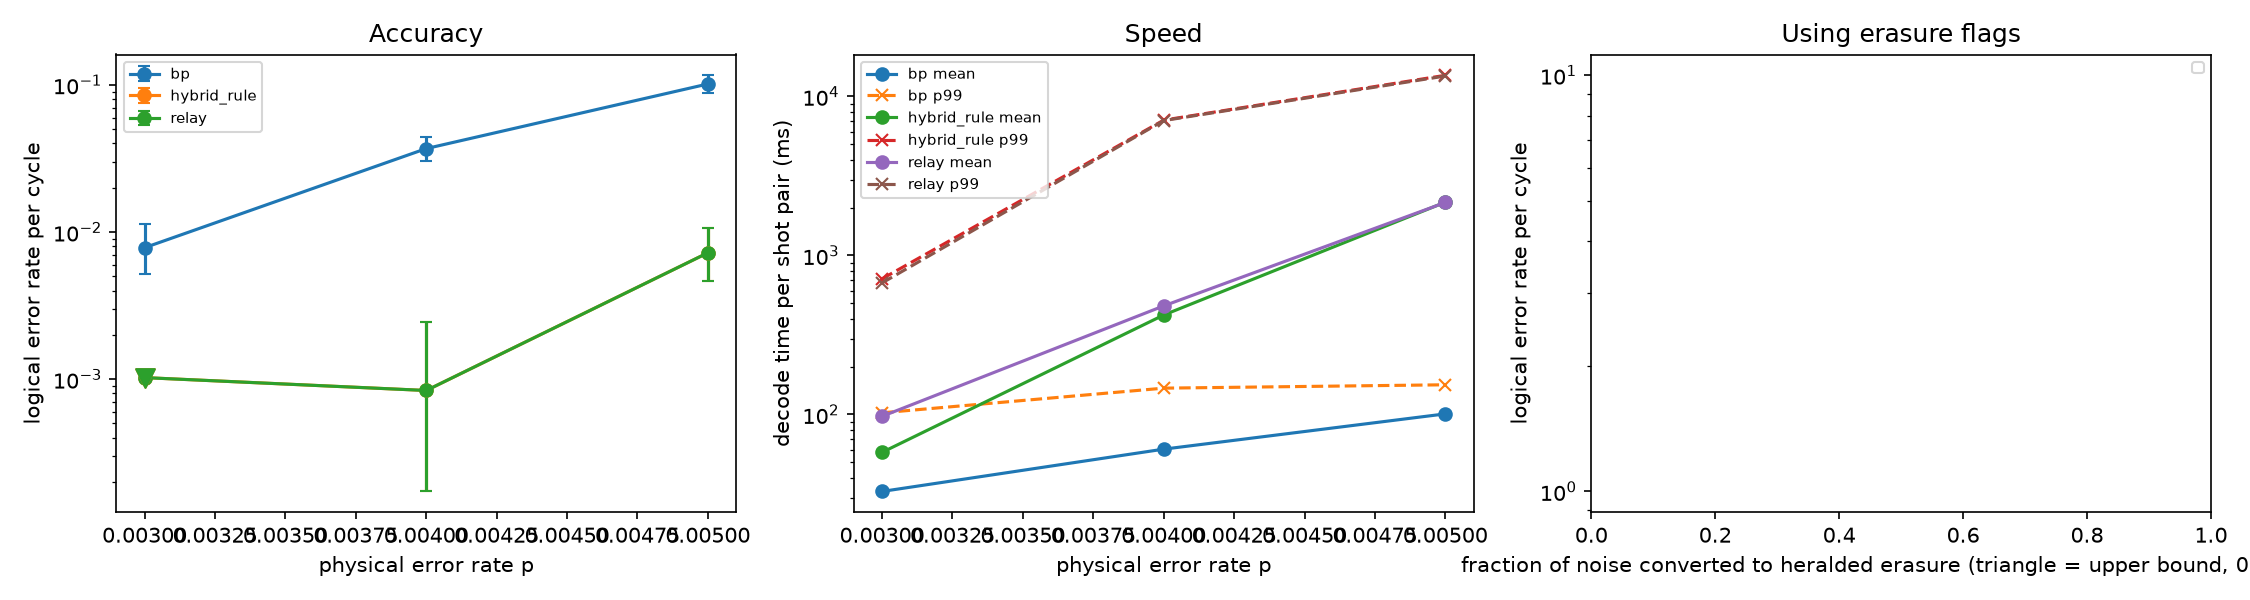
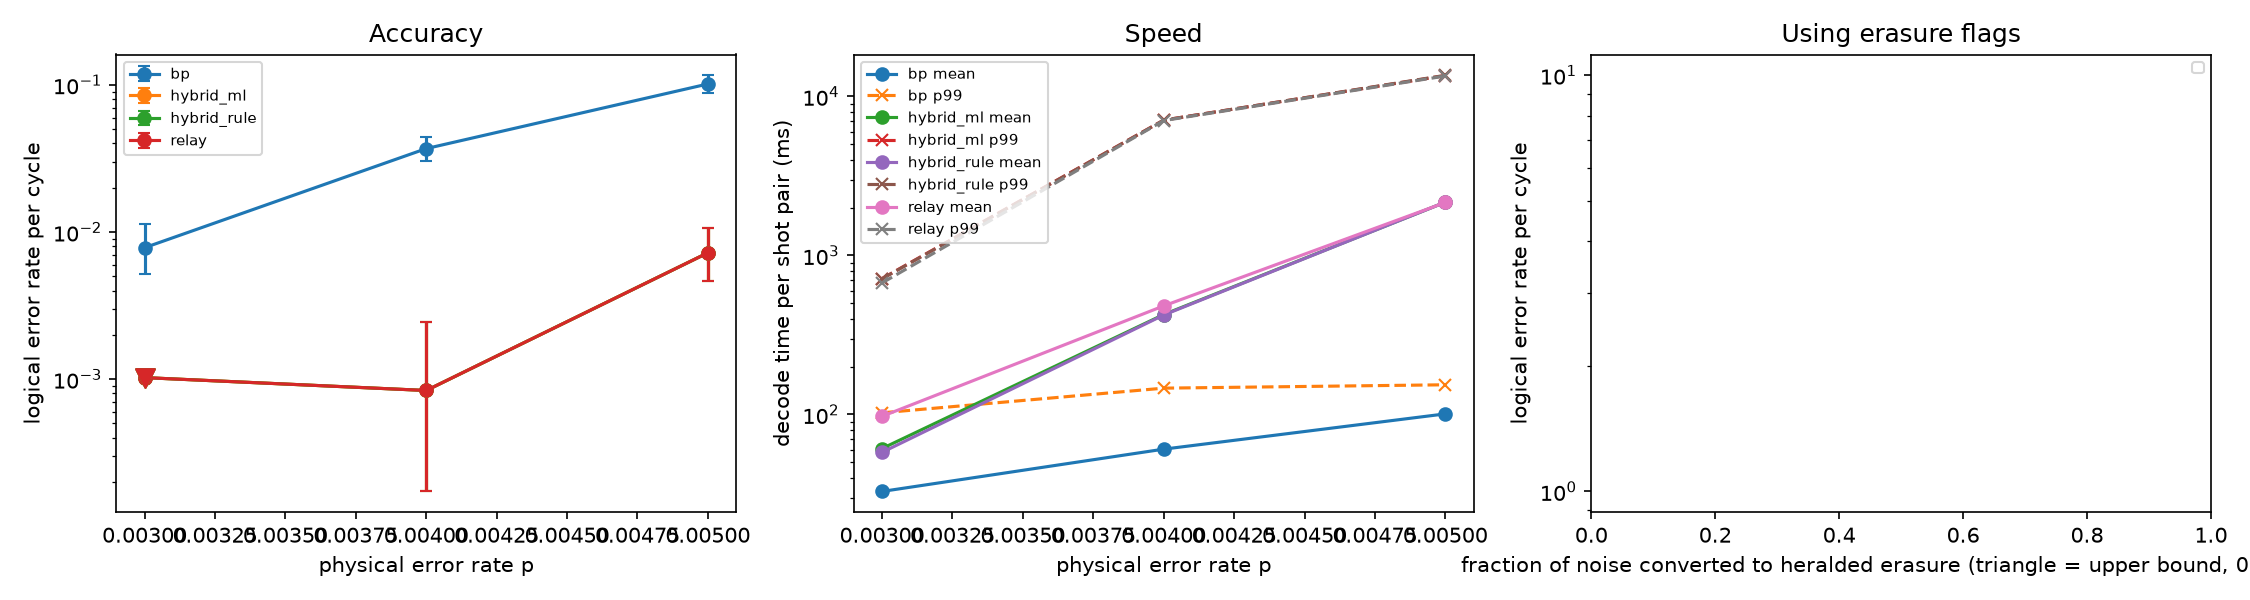
Add live demo with resource report, merge extra baselines, train-dir option; prompts for missing BP-OSD runs
Claude-Session: https://claude.ai/code/session_011bPWE2Uz1MYhyrDV9QQkmU

diff --git a/challenge-1-ml-decoder-kit/demo.py b/challenge-1-ml-decoder-kit/demo.py
@@ -1,0 +1,89 @@
+"""Live demo and resource report: one fresh shot through the ML-routed hybrid decoder.
+
+  python demo.py --p 0.004 --basis X
+
+1. Trains the router on the cached training shots (results/train_*_p<p>.npz, seed 1).
+2. Simulates one NEW shot (seed 99, never seen before).
+3. The router reads the alarm counts and picks a path: fast BP (escalating to relay-BP if BP
+   does not converge) or straight to relay-BP. The chosen decoders run live.
+4. Prints the prediction against the truth, the time per step, and the resources used.
+"""
+import argparse
+import os
+import pickle
+import platform
+import resource
+import subprocess
+import time
+
+import numpy as np
+from ldpc import BpDecoder
+from sklearn.ensemble import HistGradientBoostingClassifier
+
+from circuit import GROSS_CIRCUITS, dem_matrices, detector_ids, load_circuit, sample
+from decoders import relay_decoder
+from run_job import FAST_BP
+
+
+def cpu_name():
+    try:
+        if platform.system() == "Darwin":
+            return subprocess.check_output(["sysctl", "-n", "machdep.cpu.brand_string"], text=True).strip()
+        for line in open("/proc/cpuinfo"):
+            if line.startswith("model name"):
+                return line.split(":", 1)[1].strip()
+    except Exception:
+        pass
+    return platform.processor() or "unknown"
+
+
+def peak_mb():
+    r = resource.getrusage(resource.RUSAGE_SELF).ru_maxrss
+    return r / 1e6 if platform.system() == "Darwin" else r / 1e3   # bytes on macOS, KB on Linux
+
+
+def main():
+    a = argparse.ArgumentParser()
+    a.add_argument("--p", type=float, default=0.004)
+    a.add_argument("--basis", choices=["X", "Z"], default="X")
+    a.add_argument("--seed", type=int, default=99)
+    a.add_argument("--train-dir", default="results")
+    args = a.parse_args()
+
+    train = [dict(np.load(f"{args.train_dir}/train_{b}_p{args.p}.npz")) for b in "XZ"]
+    feats = lambda d: np.column_stack([d["round_weights"], d["round_weights"].sum(1), d["n_flags"]])
+    router = HistGradientBoostingClassifier(max_iter=200).fit(np.vstack([feats(d) for d in train]),
+                                                              np.concatenate([d["conv_bp"] for d in train]))
+    circuit = load_circuit(GROSS_CIRCUITS[args.basis], args.p)
+    H, L, priors = dem_matrices(circuit, args.basis)
+    t = time.perf_counter()
+    bp, relay = BpDecoder(H, error_channel=list(priors), **FAST_BP), relay_decoder(H, priors)
+    setup_s = time.perf_counter() - t
+
+    det, obs = sample(circuit, 1, args.seed)
+    syn = det[0, detector_ids(circuit, args.basis)]
+    x = np.concatenate([syn.reshape(-1, 72).sum(1), [syn.sum(), 0]])[None, :]
+    print(f"New shot (p={args.p}, {args.basis} memory, seed {args.seed}): {int(syn.sum())} alarms over 13 rounds")
+    print("  alarms per round:", syn.reshape(-1, 72).sum(1).tolist())
+
+    t = time.perf_counter(); easy = bool(router.predict(x)[0]); t_router = time.perf_counter() - t
+    print(f"Router ({t_router * 1e3:.1f} ms): {'easy -> fast BP first' if easy else 'hard -> straight to relay-BP'}")
+    if easy:
+        t = time.perf_counter(); e = bp.decode(syn); t_bp = time.perf_counter() - t
+        print(f"Fast BP ({t_bp * 1e3:.1f} ms): {'converged, answer accepted' if bp.converge else 'did not converge -> relay-BP'}")
+    if not easy or not bp.converge:
+        t = time.perf_counter(); e = np.asarray(relay.decode(syn), np.uint8); t_relay = time.perf_counter() - t
+        print(f"Relay-BP ({t_relay * 1e3:.1f} ms)")
+    pred = (L @ np.asarray(e, np.uint8)) % 2
+    print("Predicted logical flips:", "".join(map(str, pred)))
+    print("True logical flips:     ", "".join(map(str, obs[0])), "->", "CORRECT" if (pred == obs[0]).all() else "WRONG")
+
+    print("\nResources")
+    print(f"  CPU: {cpu_name()}, {os.cpu_count()} logical cores; this demo uses 1 thread")
+    print(f"  Decoding matrix: {H.shape[0]} checks x {H.shape[1]} error mechanisms, {H.nnz} nonzeros")
+    print(f"  Decoder setup time: {setup_s:.2f} s; router model size: {len(pickle.dumps(router)) / 1e3:.0f} kB")
+    print(f"  Peak memory of this process: {peak_mb():.0f} MB")
+
+
+if __name__ == "__main__":
+    main()

diff --git a/challenge-1-ml-decoder-kit/analyze.py b/challenge-1-ml-decoder-kit/analyze.py
@@ -26,6 +26,7 @@ from sklearn.ensemble import HistGradientBoostingClassifier
 from scipy.stats import beta
 
 CYCLES = 12
+TRAIN_DIR = None   # set by --train-dir; defaults to --dir
 
 
 def per_cycle_ci(failed, cycles=None):
@@ -39,7 +40,18 @@ def per_cycle_ci(failed, cycles=None):
 
 
 def load(path):
-    return dict(np.load(path))
+    """Load a cached result file and merge any extra decoders run later on the same shots
+    (files named extra_<basis>_p<p>*.npz next to test_<basis>_p<p>.npz, same seed and shot count)."""
+    d = dict(np.load(path))
+    base = os.path.basename(path)
+    if base.startswith("test_"):
+        for extra in glob.glob(os.path.join(os.path.dirname(path), base.replace("test_", "extra_").replace(".npz", "*.npz"))):
+            e = dict(np.load(extra))
+            if int(e["seed"]) != int(d["seed"]) or int(e["shots"]) != int(d["shots"]):
+                print(f"skipping {extra}: seed or shot count differs from {base}")
+                continue
+            d.update({k: v for k, v in e.items() if k.split("_")[0] in ("fail", "time", "conv")})
+    return d
 
 
 def features(d):
@@ -47,6 +59,7 @@ def features(d):
 
 
 def train_router(dirname, p):
+    dirname = TRAIN_DIR or dirname
     """ML router and the simple baseline (one threshold on total alarm count), both fit on the train seed only."""
     files = [f"{dirname}/train_{b}_p{p}.npz" for b in "XZ"]
     if not all(os.path.exists(f) for f in files):
@@ -99,7 +112,10 @@ def paired(px, pz, name):
 def main():
     a = argparse.ArgumentParser()
     a.add_argument("--dir", default="results")
+    a.add_argument("--train-dir", help="where train_*.npz live (default: --dir), e.g. results for results_timing")
     args = a.parse_args()
+    global TRAIN_DIR
+    TRAIN_DIR = args.train_dir
     rows = []
     ps = sorted({re.search(r"_p([\d.]+)\.npz", f).group(1) for f in glob.glob(f"{args.dir}/test_X_p*.npz")})
     for p in ps:

diff --git a/PROMPTS.md b/PROMPTS.md
@@ -111,3 +111,30 @@ for p in 0.003 0.004 0.005; do for b in X Z; do python run_job.py --basis $b --p
 Then: python analyze.py --dir results_timing   (use only its mean/p99 times; its error rates are too noisy with 300 shots)
 git pull && git add -f results_timing/*.npz && git commit -m "results: clean timing" && git push
 ```
+
+## Missing BP-OSD baselines (any two free laptops, about 10–20 min each)
+The sponsor wants BP-OSD on the same test shots at every error rate. Same seed and shot count means the same shots. `analyze.py` merges these files in automatically.
+
+**Laptop A (p = 0.003):**
+```text
+cd ~/MGCcorrection/challenge-1-ml-decoder-kit && git pull && source .venv/bin/activate. Do not edit code.
+Two terminals at once (caffeinate -i on a Mac):
+Terminal 1: python run_job.py --basis X --p 0.003 --shots 5000 --seed 2 --decoders bposd --out results/extra_X_p0.003.npz
+Terminal 2: python run_job.py --basis Z --p 0.003 --shots 5000 --seed 2 --decoders bposd --out results/extra_Z_p0.003.npz
+Then: git pull && git add -f results/extra_*.npz && git commit -m "results: bposd p0.003" && git push
+```
+**Laptop B (p = 0.005):**
+```text
+cd ~/MGCcorrection/challenge-1-ml-decoder-kit && git pull && source .venv/bin/activate. Do not edit code.
+Two terminals at once (caffeinate -i on a Mac):
+Terminal 1: python run_job.py --basis X --p 0.005 --shots 2000 --seed 2 --decoders bposd --out results/extra_X_p0.005.npz
+Terminal 2: python run_job.py --basis Z --p 0.005 --shots 2000 --seed 2 --decoders bposd --out results/extra_Z_p0.005.npz
+Then: git pull && git add -f results/extra_*.npz && git commit -m "results: bposd p0.005" && git push
+```
+
+## Live demo (presenter's laptop, during the pitch)
+```bash
+cd ~/MGCcorrection/challenge-1-ml-decoder-kit && git pull && source .venv/bin/activate
+python demo.py --p 0.004 --basis X        # one fresh shot through the router and decoder, plus resources
+python analyze.py --dir results_timing --train-dir results   # clean timing table incl. the ML hybrid
+```
